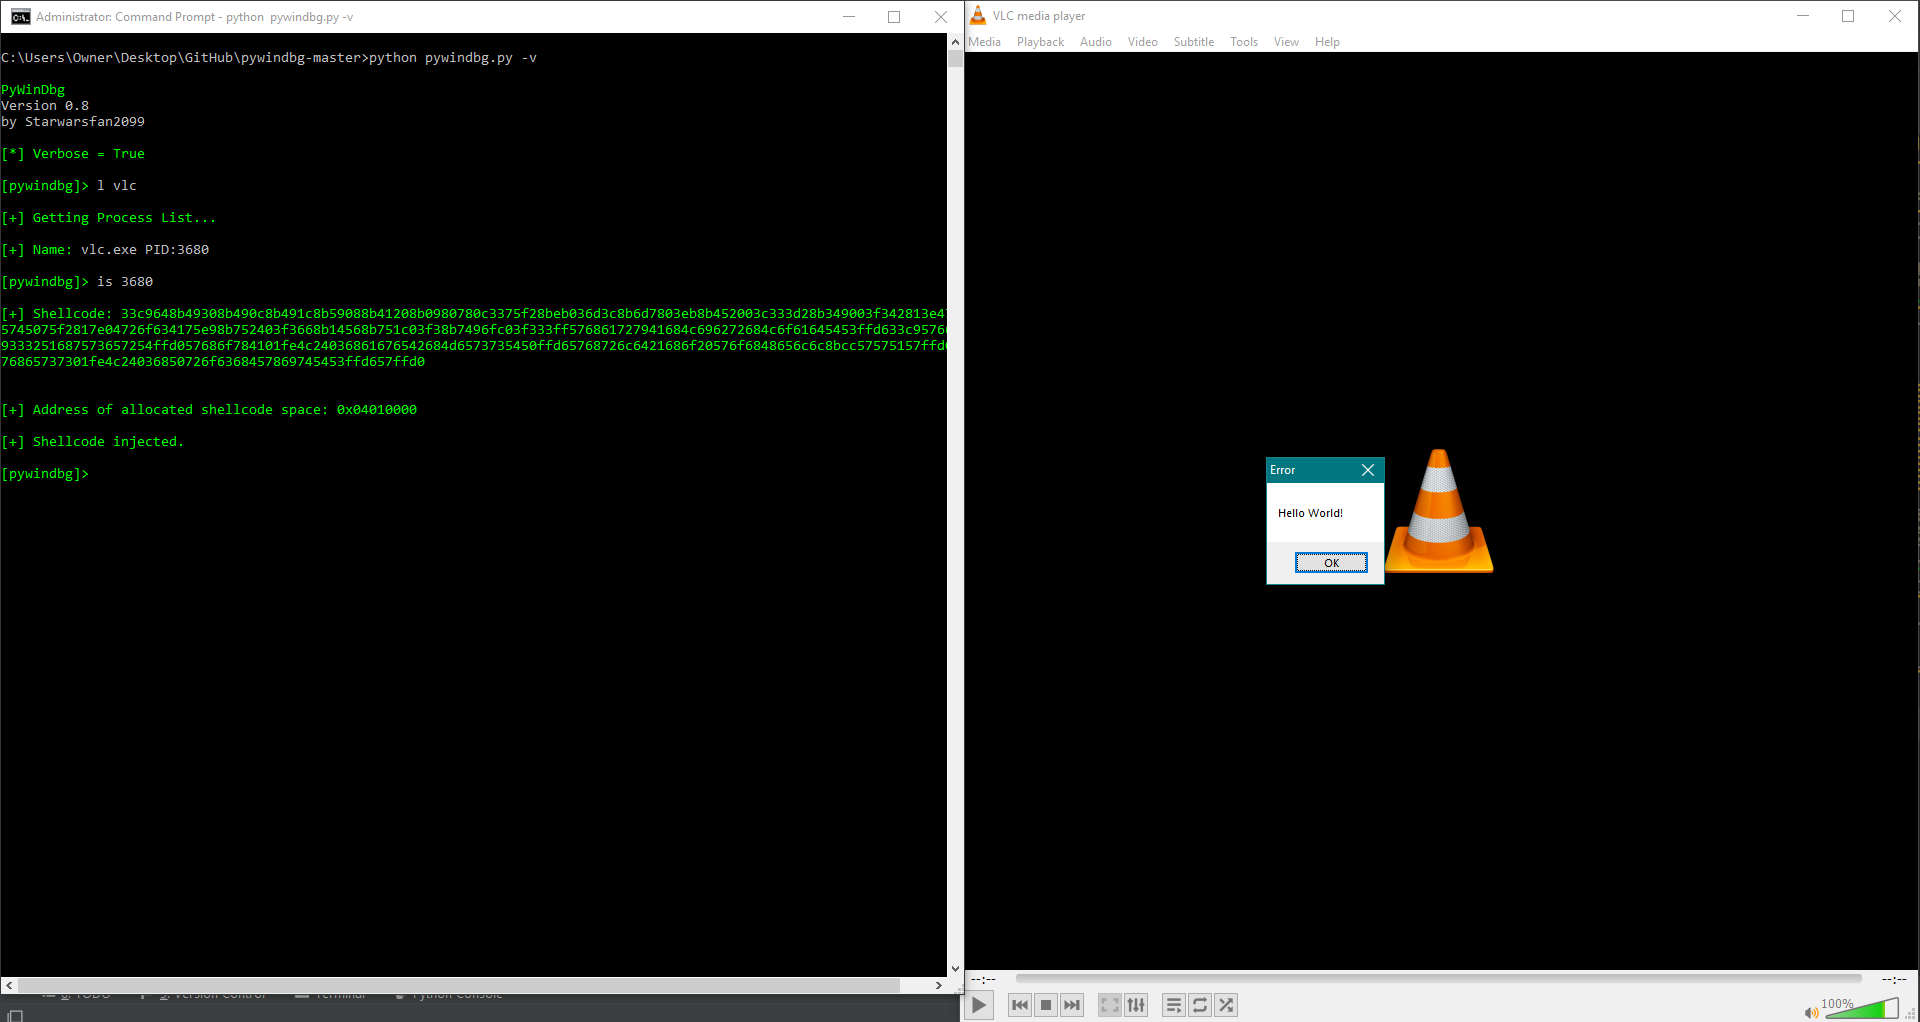
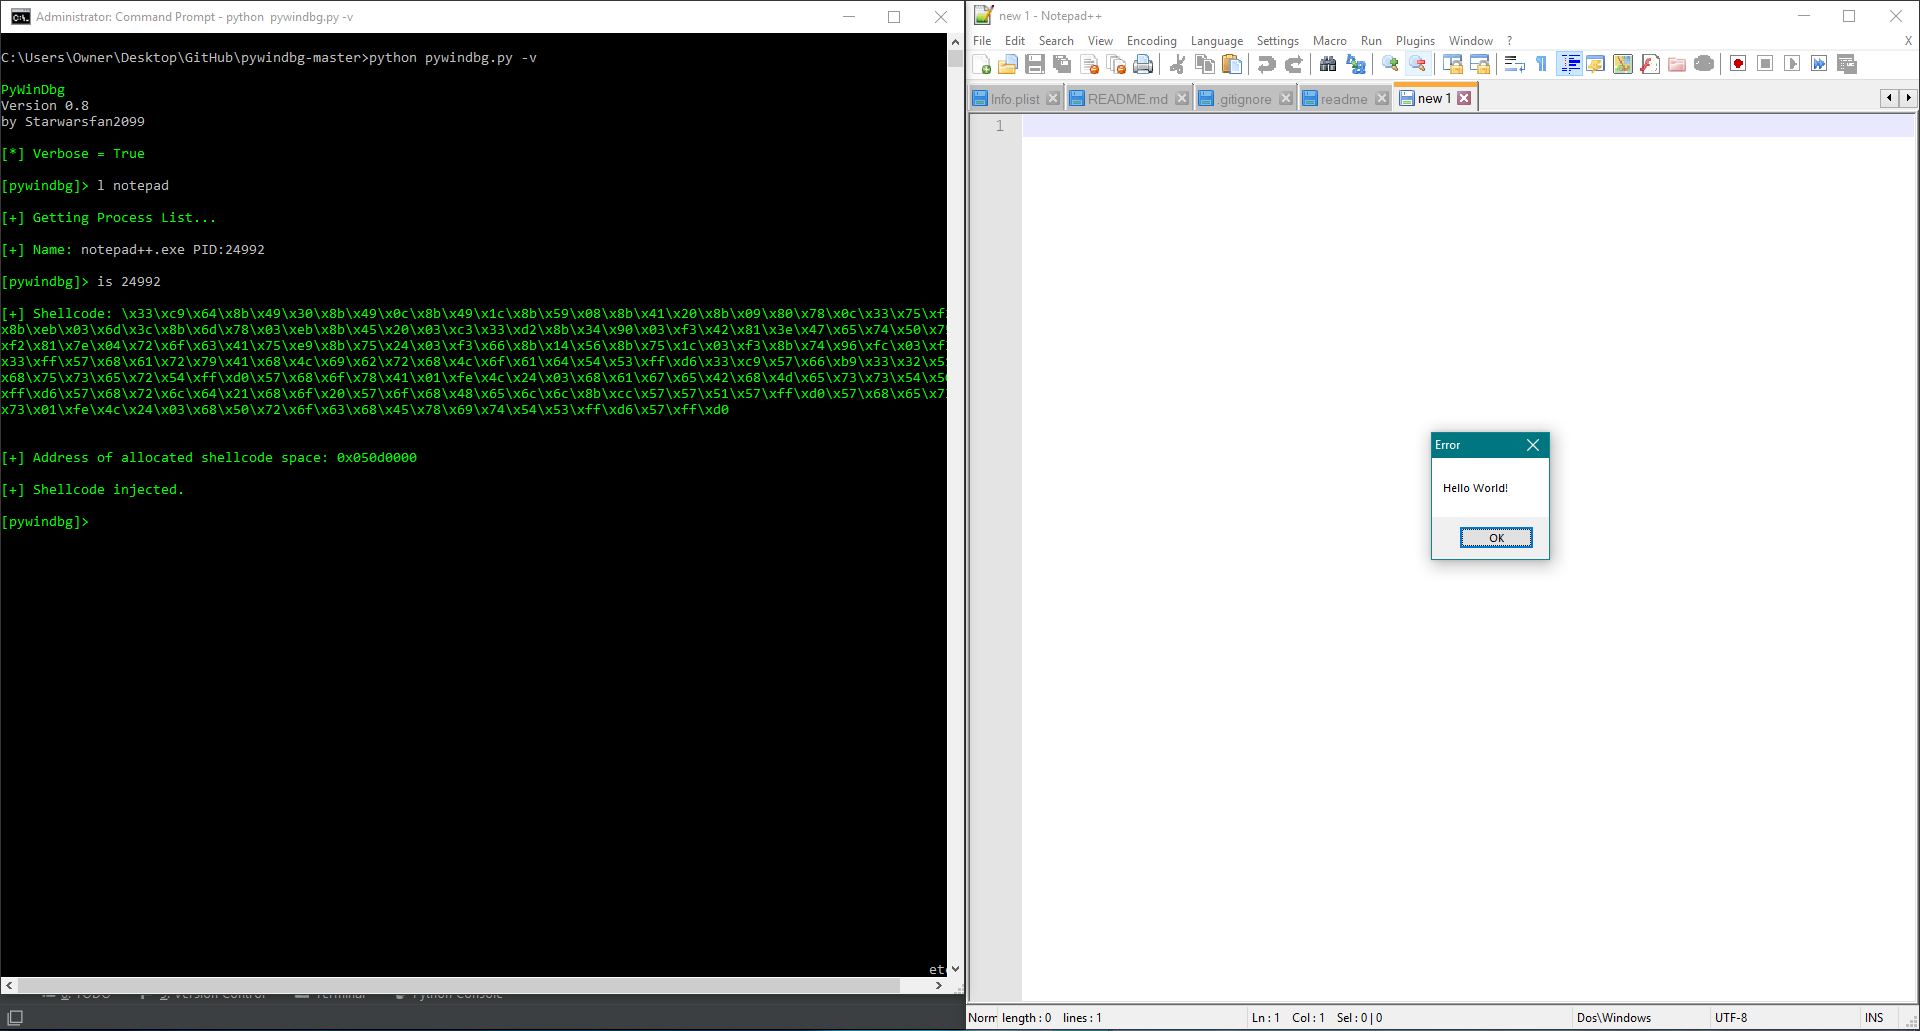
Update shellcode printing

diff --git a/utilities.py b/utilities.py
@@ -67,7 +67,7 @@ class Utilities:
             hv = hex(ord(ch)).replace('0x', '')
             if len(hv) == 1:
                 hv = '0' + hv
-            lst.append(hv)
+            lst.append("\\x" + hv)
 
         return reduce(lambda x, y: x + y, lst)
 
